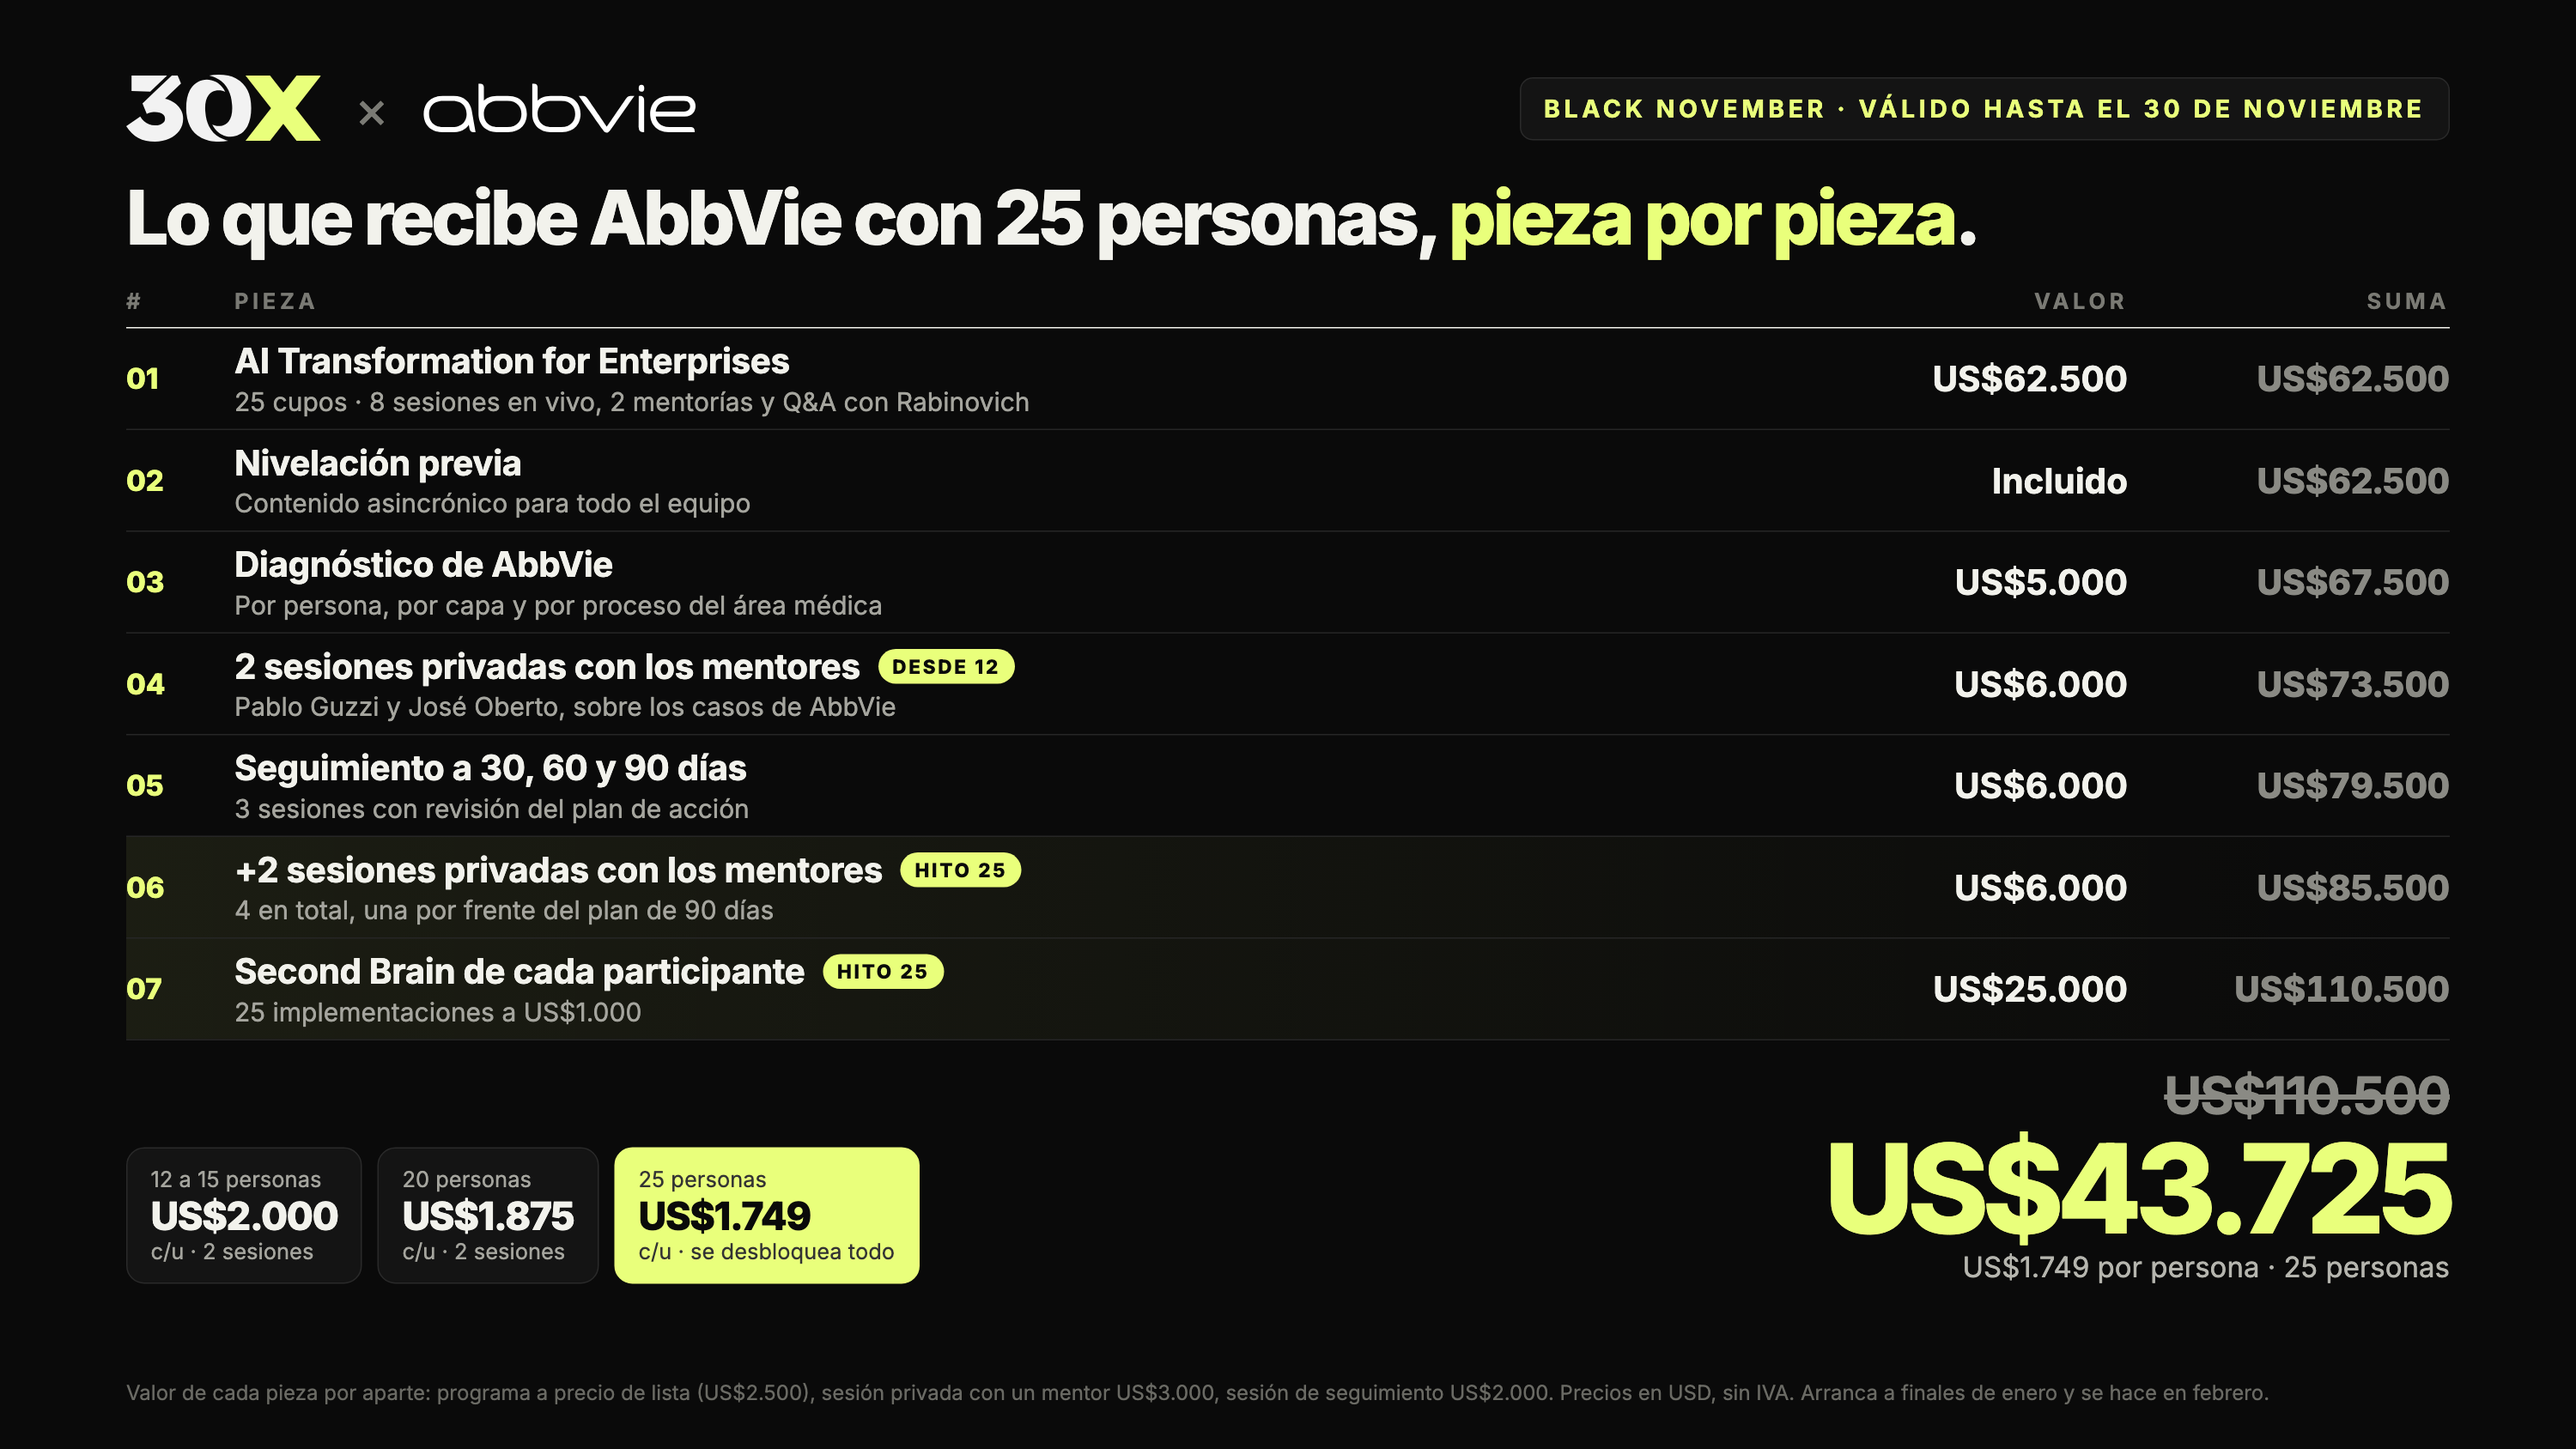
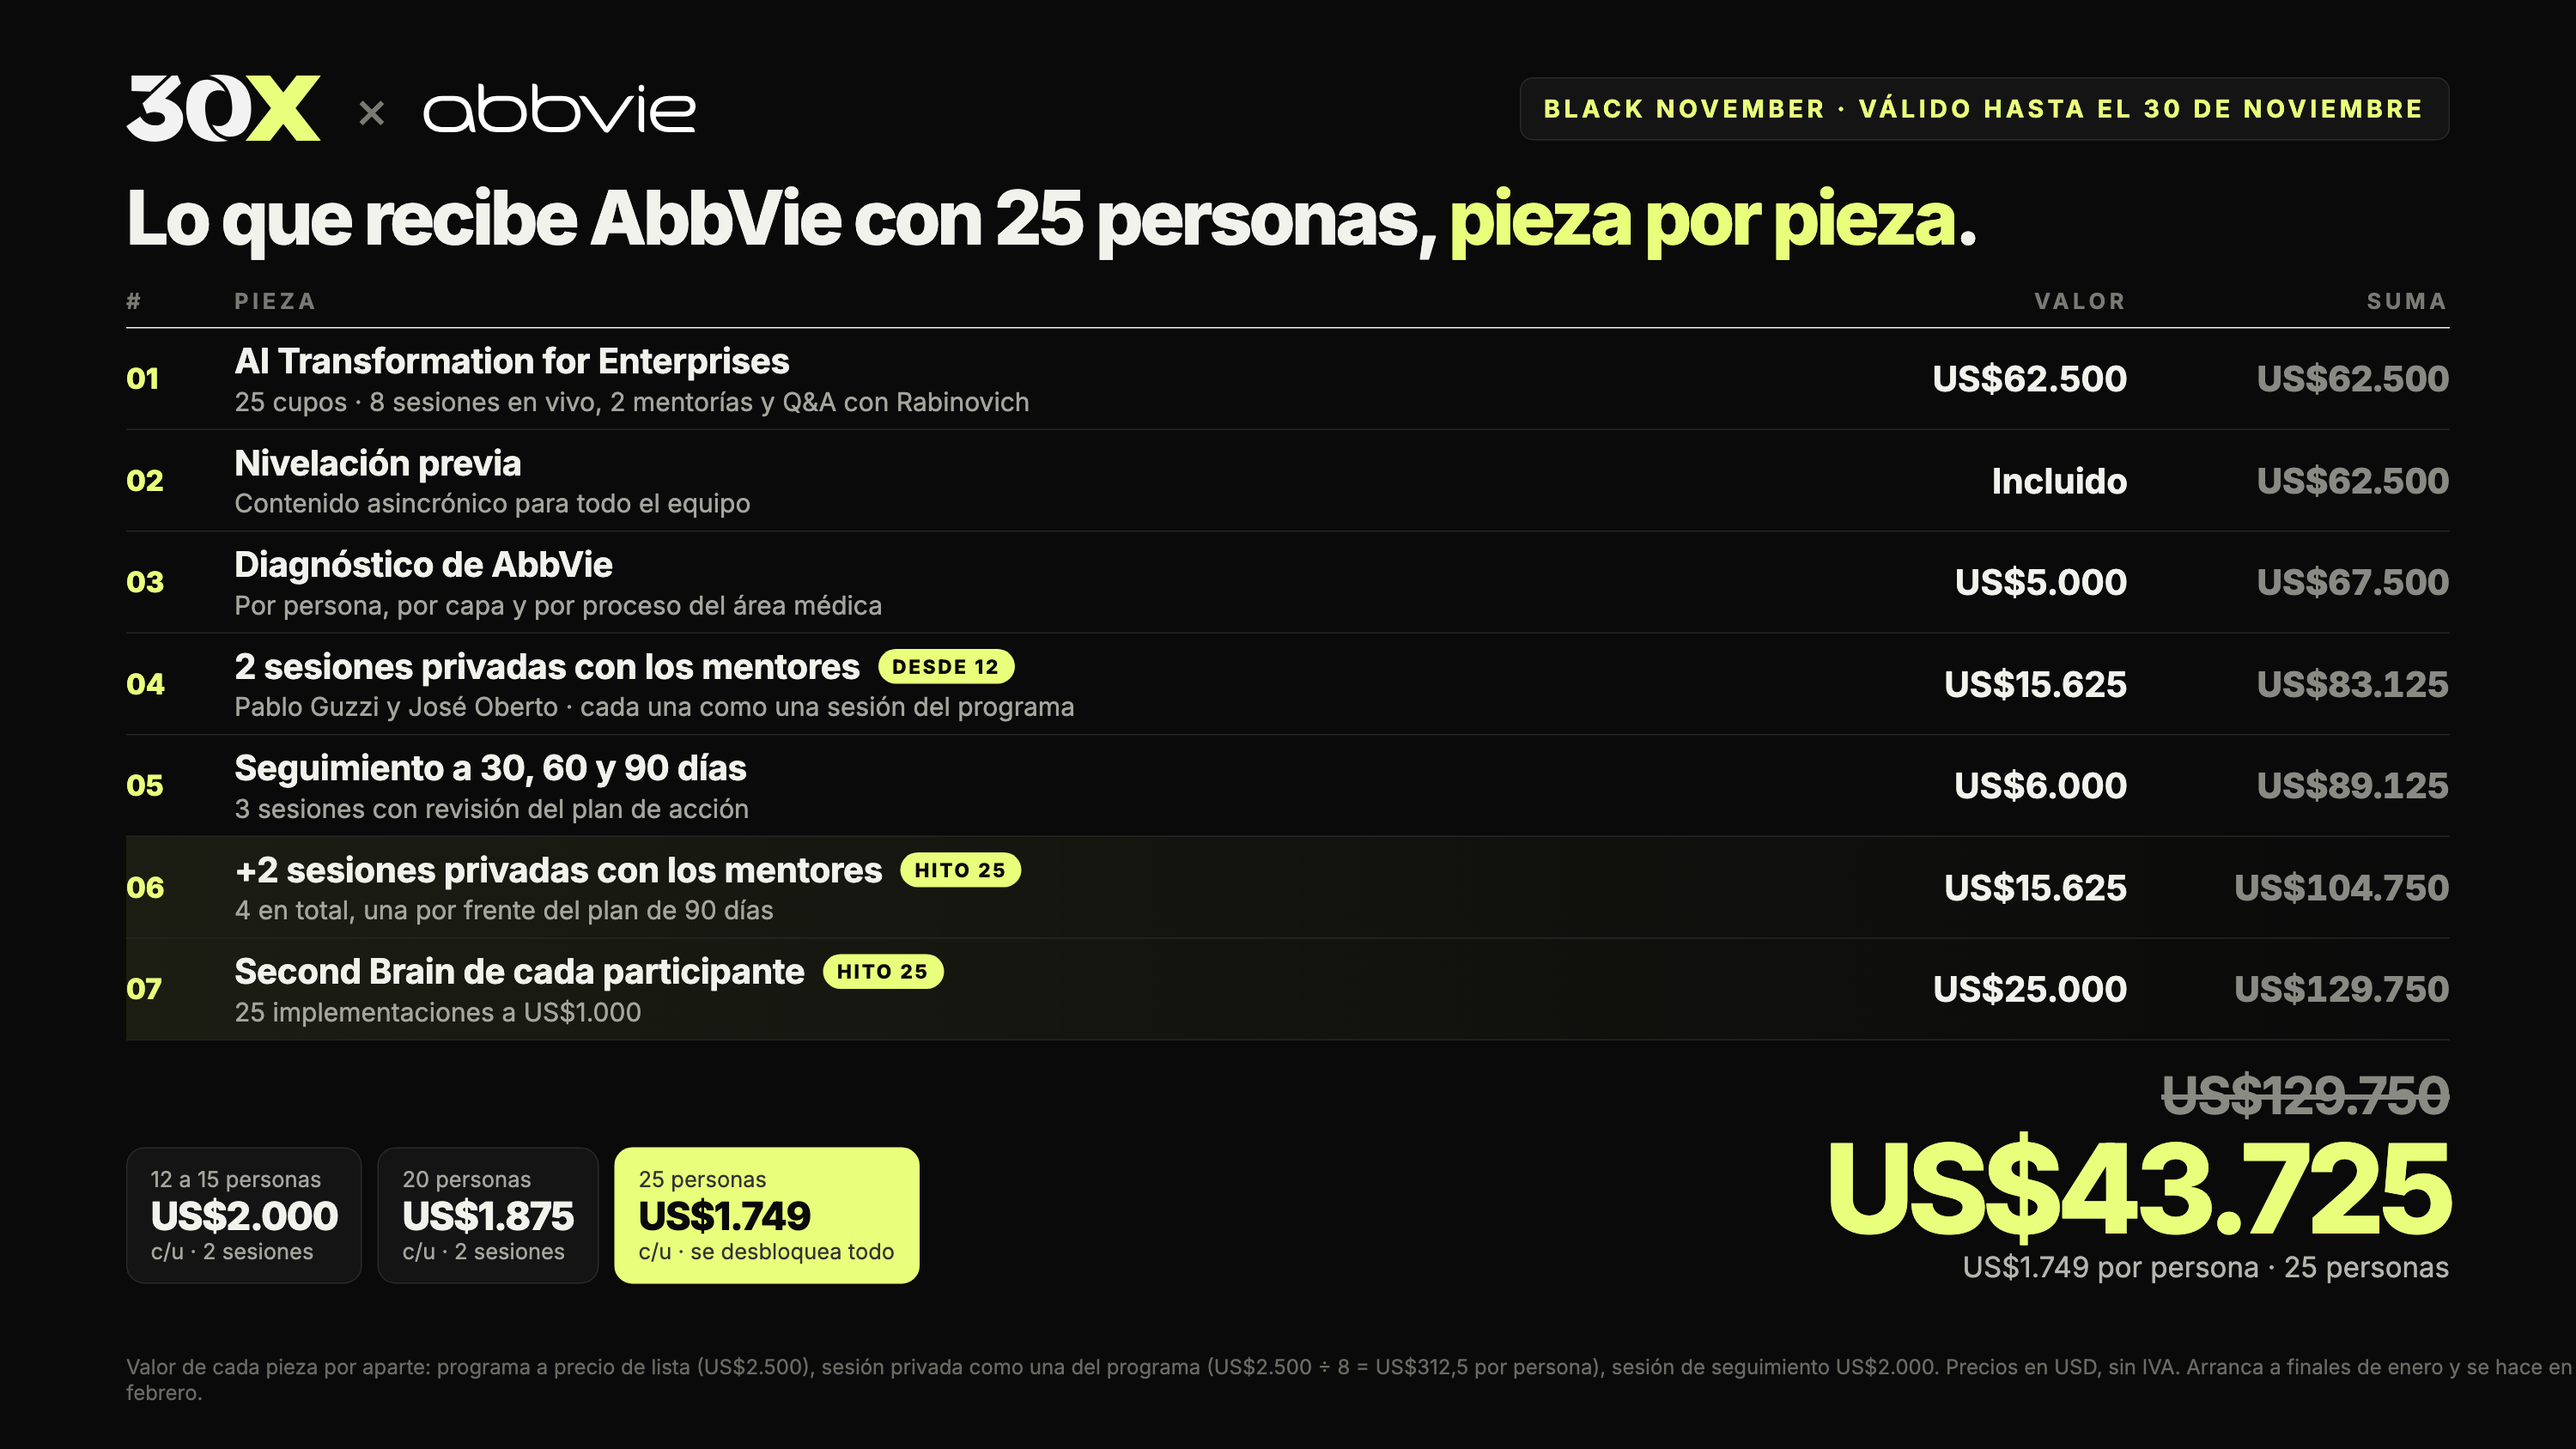
Sesiones privadas valoradas como una sesión del programa
Claude-Session: https://claude.ai/code/session_0195TjmjBYATRa9EjcLAtygS

diff --git a/index.html b/index.html
@@ -62,12 +62,12 @@ tr.on td{color:var(--l);font-weight:700}
 </div>
 <div class="box"><div class="k" style="color:#B5B5AE">Referencia</div>
 <table><thead><tr><th>Participantes</th><th>Por persona</th><th>Total</th><th>Sesiones privadas</th></tr></thead><tbody id="tb"></tbody></table></div>
-<p class="f">Valores en dólares, sin IVA; facturados en pesos a la TRM del día de emisión. El valor de lo incluido suma cada pieza por aparte: el programa a precio de lista, el diagnóstico (USD 5.000), las sesiones privadas con los mentores (USD 3.000 cada una), el seguimiento 30-60-90 con revisión del plan de acción (3 sesiones a USD 2.000) y, con 25 personas, la implementación del Second Brain (USD 1.000 por persona).</p>
+<p class="f">Valores en dólares, sin IVA; facturados en pesos a la TRM del día de emisión. El valor de lo incluido suma cada pieza por aparte: el programa a precio de lista, el diagnóstico (USD 5.000), las sesiones privadas con los mentores (cada una como una sesión del programa: USD 2.500 ÷ 8 = USD 312,5 por persona), el seguimiento 30-60-90 con revisión del plan de acción (3 sesiones a USD 2.000) y, con 25 personas, la implementación del Second Brain (USD 1.000 por persona).</p>
 </main>
 <script>
 const f=v=>'USD '+Math.round(v).toLocaleString('es-CO');
 const pp=n=>n<=15?2000:(n>=25?1749:2000-(n-15)*25), ses=n=>n>=25?4:2;
-const valor=n=>n*2500+5000+ses(n)*3000+6000+(n>=25?n*1000:0);
+const valor=n=>n*2500+5000+ses(n)*n*312.5+6000+(n>=25?n*1000:0);
 function draw(n){n=+n;document.getElementById('n').textContent=n;
  const p=pp(n),t=n*p;document.getElementById('pp').textContent=f(p);document.getElementById('tot').textContent=f(t);
  document.getElementById('ah').textContent=f(n*2500-t);document.getElementById('val').textContent=f(valor(n));
